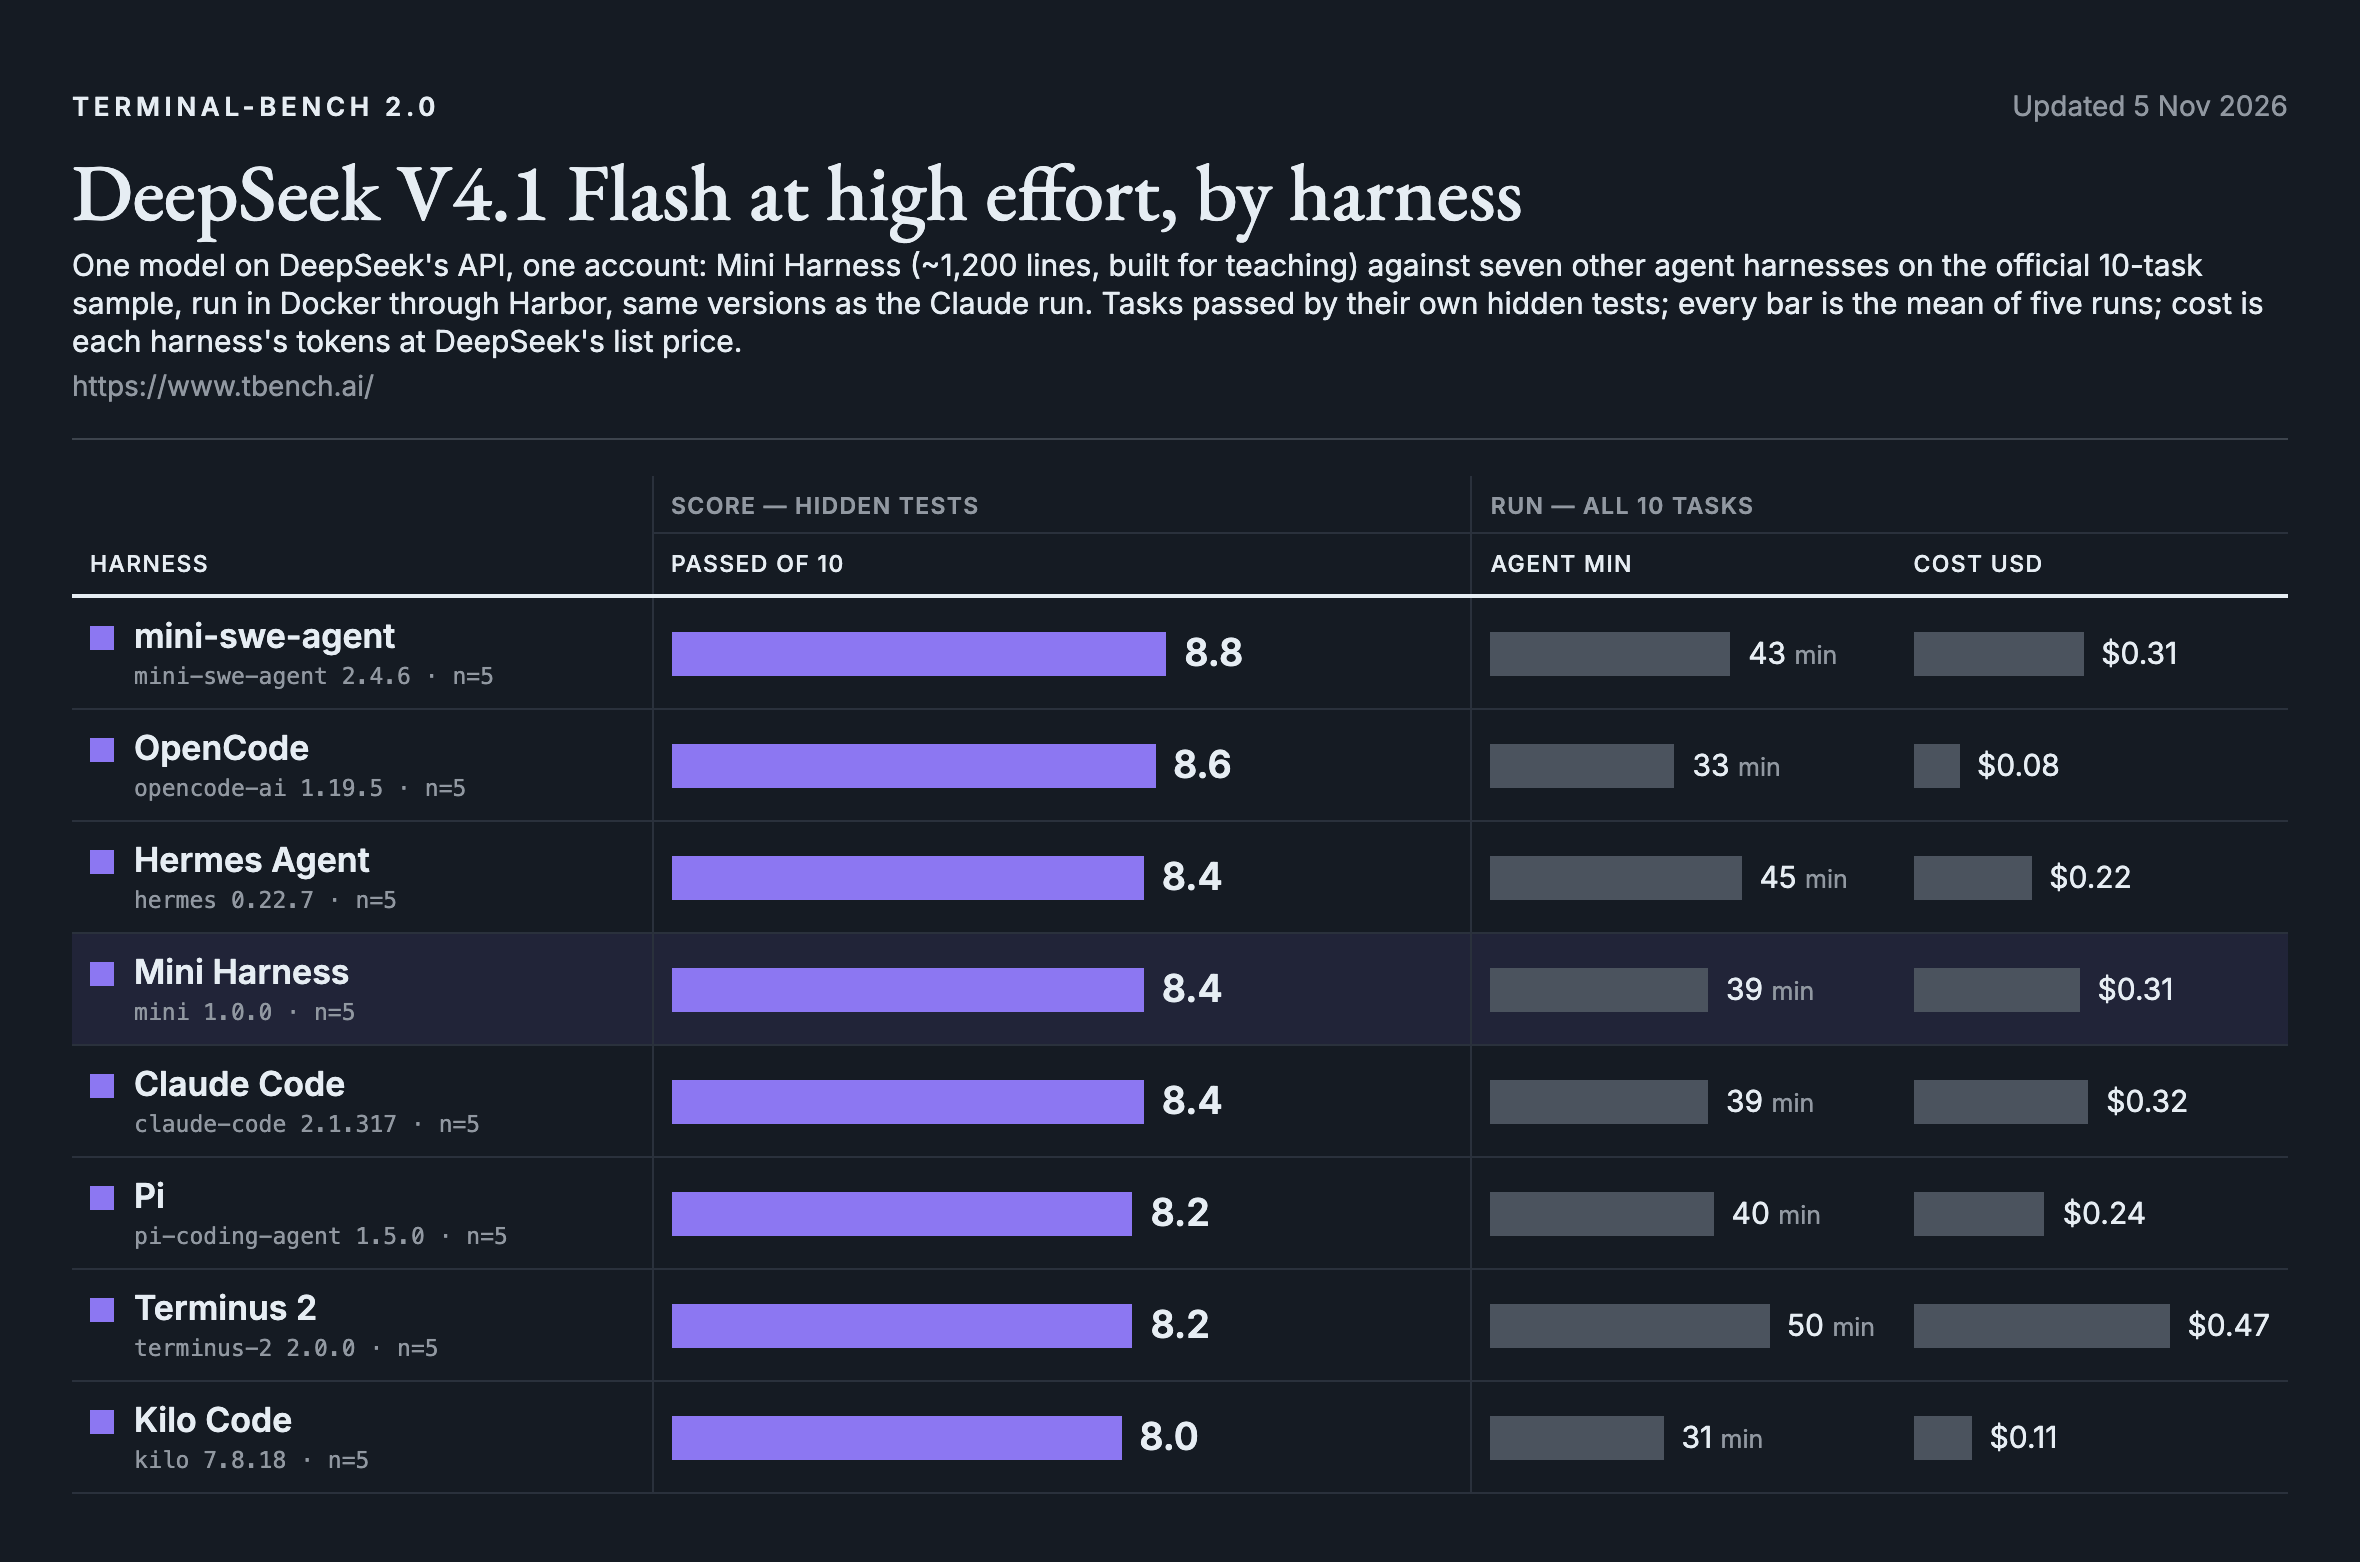
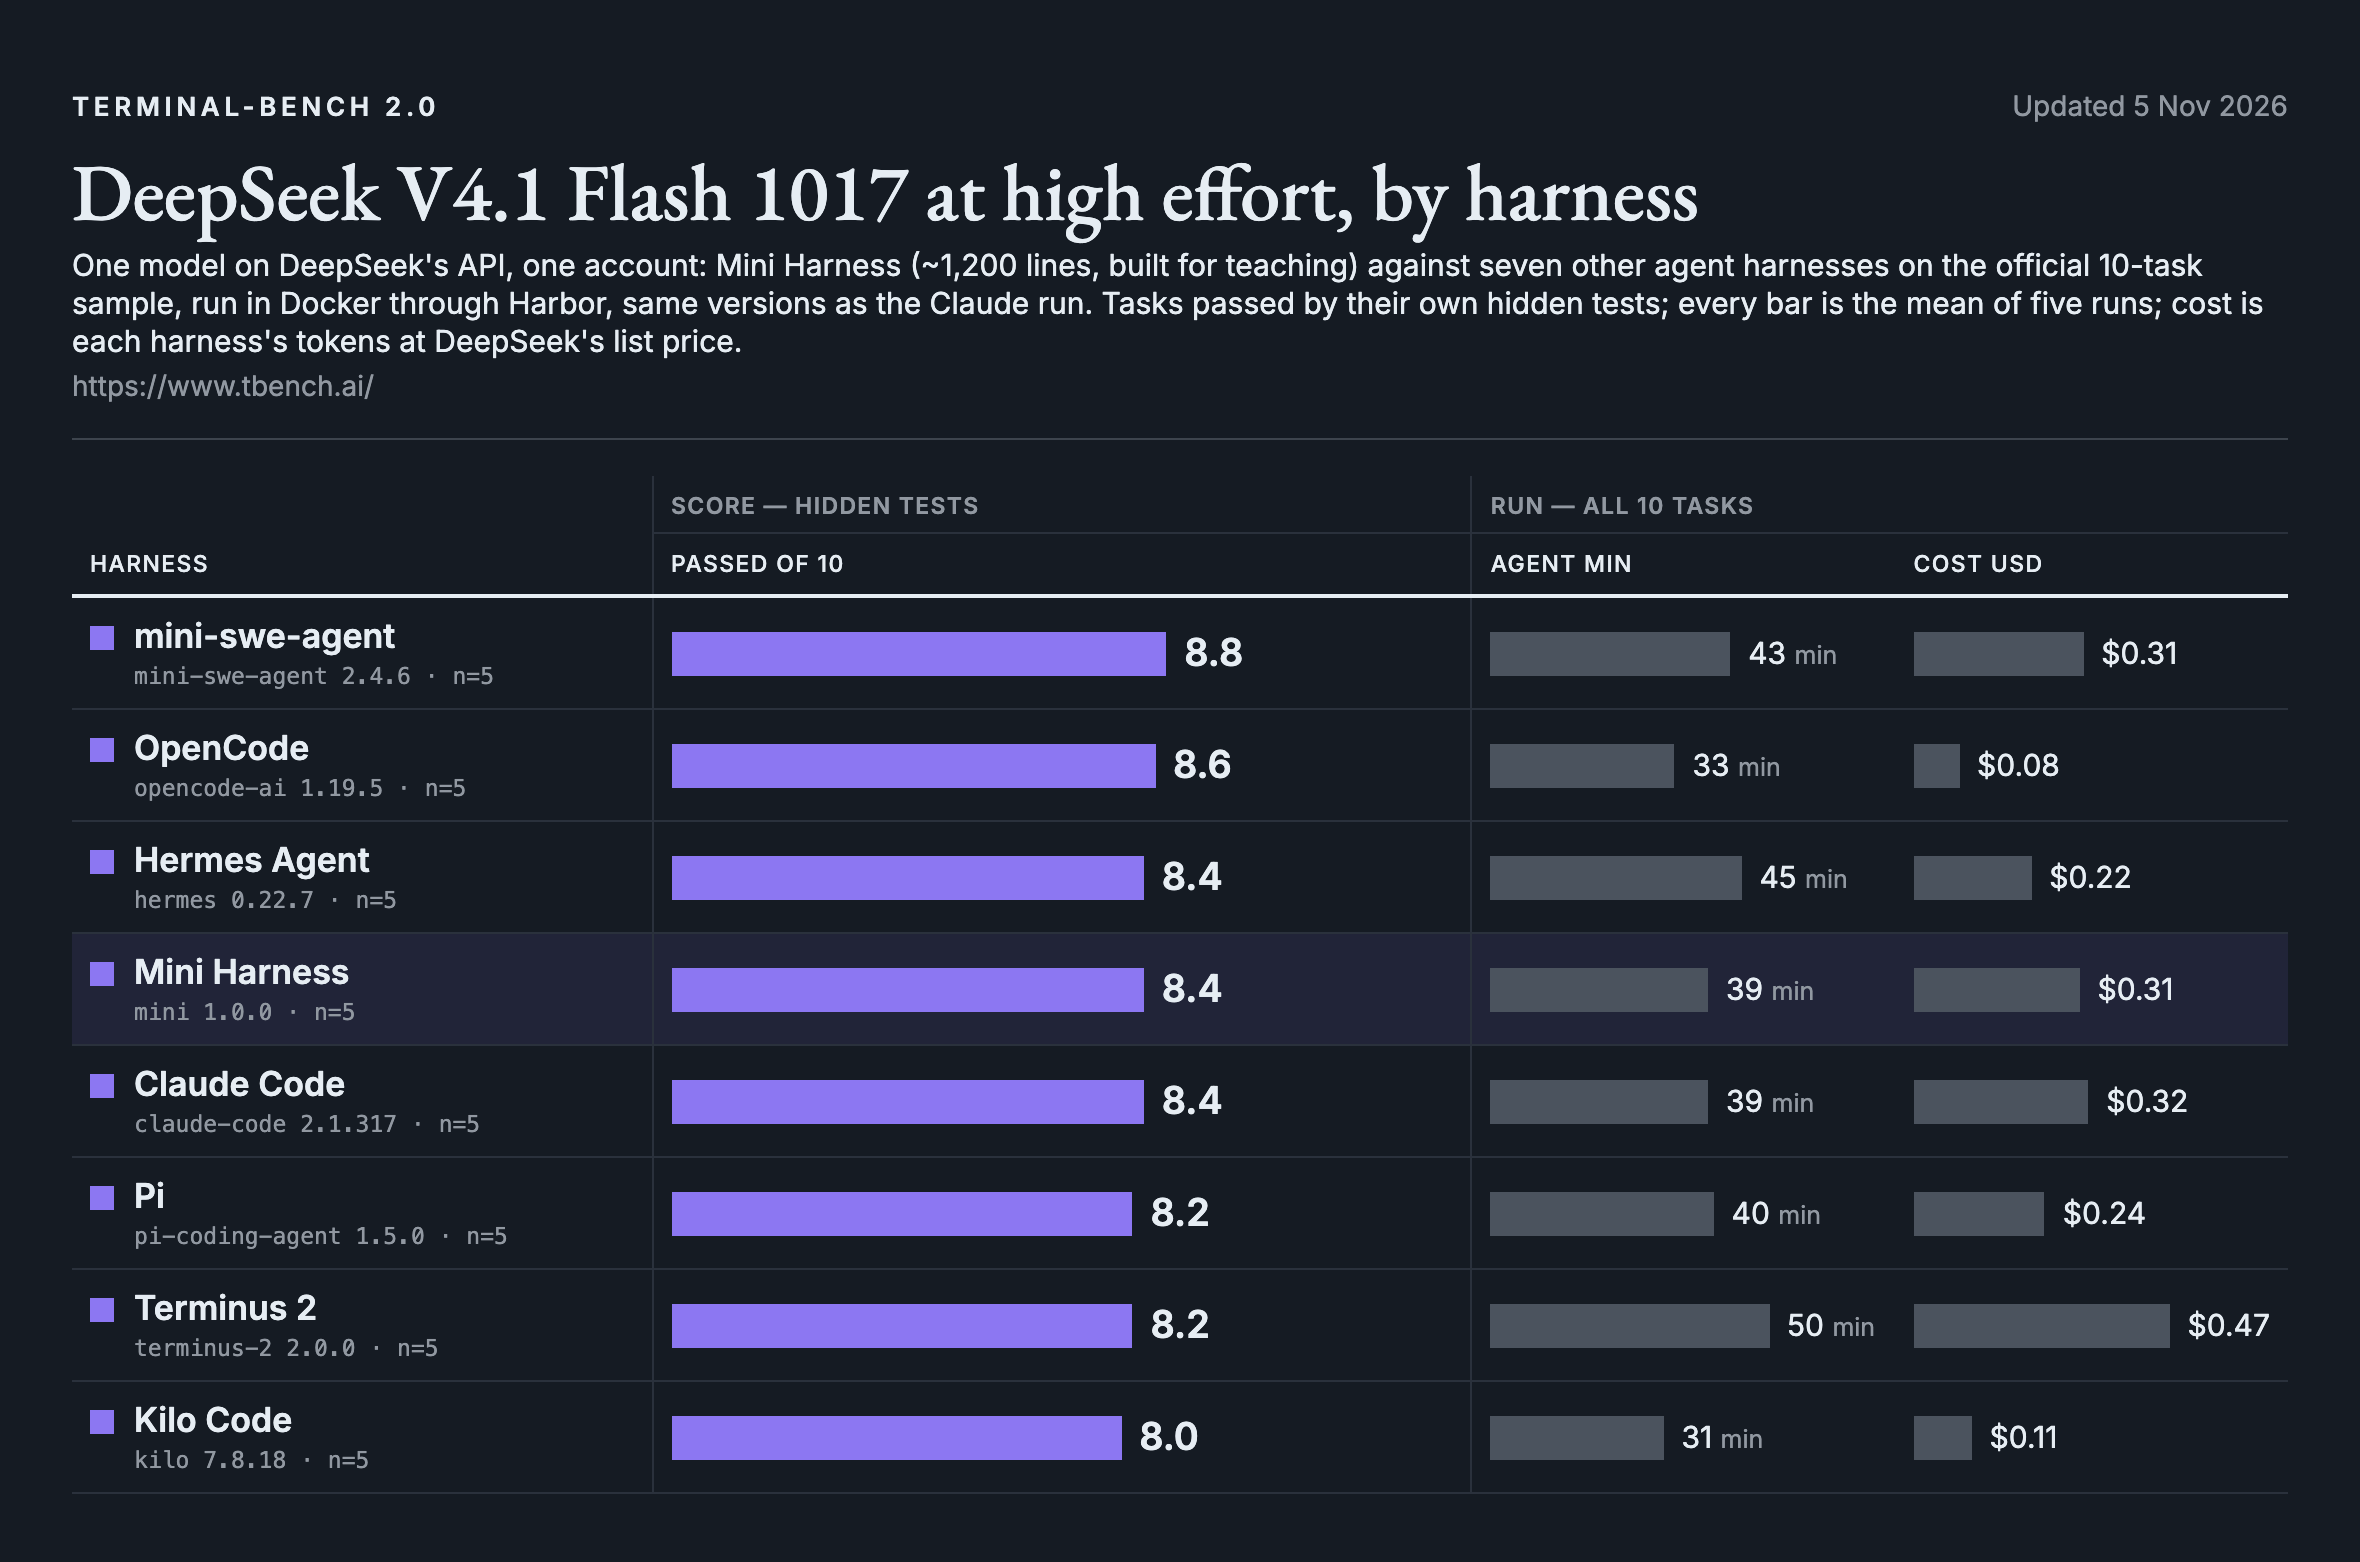
Terminal-Bench DeepSeek chart and README: DeepSeek V4.1 Flash 1017, as on the Bug Hunt Bench chart

Changed region(s): [[0.3093, 0.0922, 0.7114, 0.1536]]

diff --git a/README.md b/README.md
@@ -50,7 +50,7 @@ As of November 2026. Pi is built to be extended; mini is built to be read.
 [Terminal-Bench 2.0](https://www.tbench.ai/) gives an agent a job in a Docker container, such as building a Cython extension, setting up a git web server or booting an Alpine VM in QEMU, and checks the result with hidden tests. On its official 10-task sample, run through Harbor with the same model for every harness, five runs each, [mini 1.0.0](https://github.com/phuryn/mini-harness/tree/767a0b4) passed:
 
 - **Claude Haiku 5.5 at high effort:** 9.2 of 10 on average, the highest of eight harnesses, ahead of Pi and mini-swe-agent (8.8), in 31 agent minutes and for $0.11 a run.
-- **DeepSeek V4.1 Flash at high effort**, on DeepSeek's own API: 8.4, level with Claude Code and Hermes Agent, behind mini-swe-agent (8.8) and OpenCode (8.6). Cost is each harness's tokens at DeepSeek's list price.
+- **DeepSeek V4.1 Flash 1017 at high effort**, on DeepSeek's own API: 8.4, level with Claude Code and Hermes Agent, behind mini-swe-agent (8.8) and OpenCode (8.6). Cost is each harness's tokens at DeepSeek's list price.
 
 <picture>
   <source media="(prefers-color-scheme: dark)" srcset="docs/img/terminal-bench-dark.png">
@@ -59,7 +59,7 @@ As of November 2026. Pi is built to be extended; mini is built to be read.
 
 <picture>
   <source media="(prefers-color-scheme: dark)" srcset="docs/img/terminal-bench-deepseek-dark.png">
-  <img src="docs/img/terminal-bench-deepseek-light.png" alt="Terminal-Bench 2.0, DeepSeek V4.1 Flash at high effort, cost at DeepSeek list price, mean tasks passed of 10 over five runs, with agent minutes and cost per run: mini-swe-agent 8.8 (43 min, $0.31), OpenCode 8.6 (33 min, $0.08), Hermes Agent 8.4 (45 min, $0.22), Mini Harness 8.4 (39 min, $0.31), Claude Code 8.4 (39 min, $0.32), Pi 8.2 (40 min, $0.24), Terminus 2 8.2 (50 min, $0.47), Kilo Code 8.0 (31 min, $0.11).">
+  <img src="docs/img/terminal-bench-deepseek-light.png" alt="Terminal-Bench 2.0, DeepSeek V4.1 Flash 1017 at high effort, cost at DeepSeek list price, mean tasks passed of 10 over five runs, with agent minutes and cost per run: mini-swe-agent 8.8 (43 min, $0.31), OpenCode 8.6 (33 min, $0.08), Hermes Agent 8.4 (45 min, $0.22), Mini Harness 8.4 (39 min, $0.31), Claude Code 8.4 (39 min, $0.32), Pi 8.2 (40 min, $0.24), Terminus 2 8.2 (50 min, $0.47), Kilo Code 8.0 (31 min, $0.11).">
 </picture>
 
 Gaps under about one task are within run-to-run noise: a single harness moved by up to four tasks between runs. Some Claude runs were on a Mac and the rest on x86 Linux, with the same harness versions.
@@ -68,7 +68,7 @@ One task was re-run. In build-cython-ext, the hidden test runs `uv run pytest`, 
 
 ### On Bug Hunt Bench
 
-[Bug Hunt Bench](https://bughunt.productcompass.pm/) plants 105 bugs in two codebases and counts how many an agent fixes. With one model for every harness, DeepSeek V4.1 Flash at high effort on DeepSeek's own API, [mini 0.9.0](https://github.com/phuryn/mini-harness/tree/c936132) fixed 34.2 on average over five runs, between Claude Code (36.4) and Codex CLI (33.2), in 71 minutes and for $0.86 a run.
+[Bug Hunt Bench](https://bughunt.productcompass.pm/) plants 105 bugs in two codebases and counts how many an agent fixes. With one model for every harness, DeepSeek V4.1 Flash 1017 at high effort on DeepSeek's own API, [mini 0.9.0](https://github.com/phuryn/mini-harness/tree/c936132) fixed 34.2 on average over five runs, between Claude Code (36.4) and Codex CLI (33.2), in 71 minutes and for $0.86 a run.
 
 <picture>
   <source media="(prefers-color-scheme: dark)" srcset="docs/img/bug-hunt-bench-dark.png">
